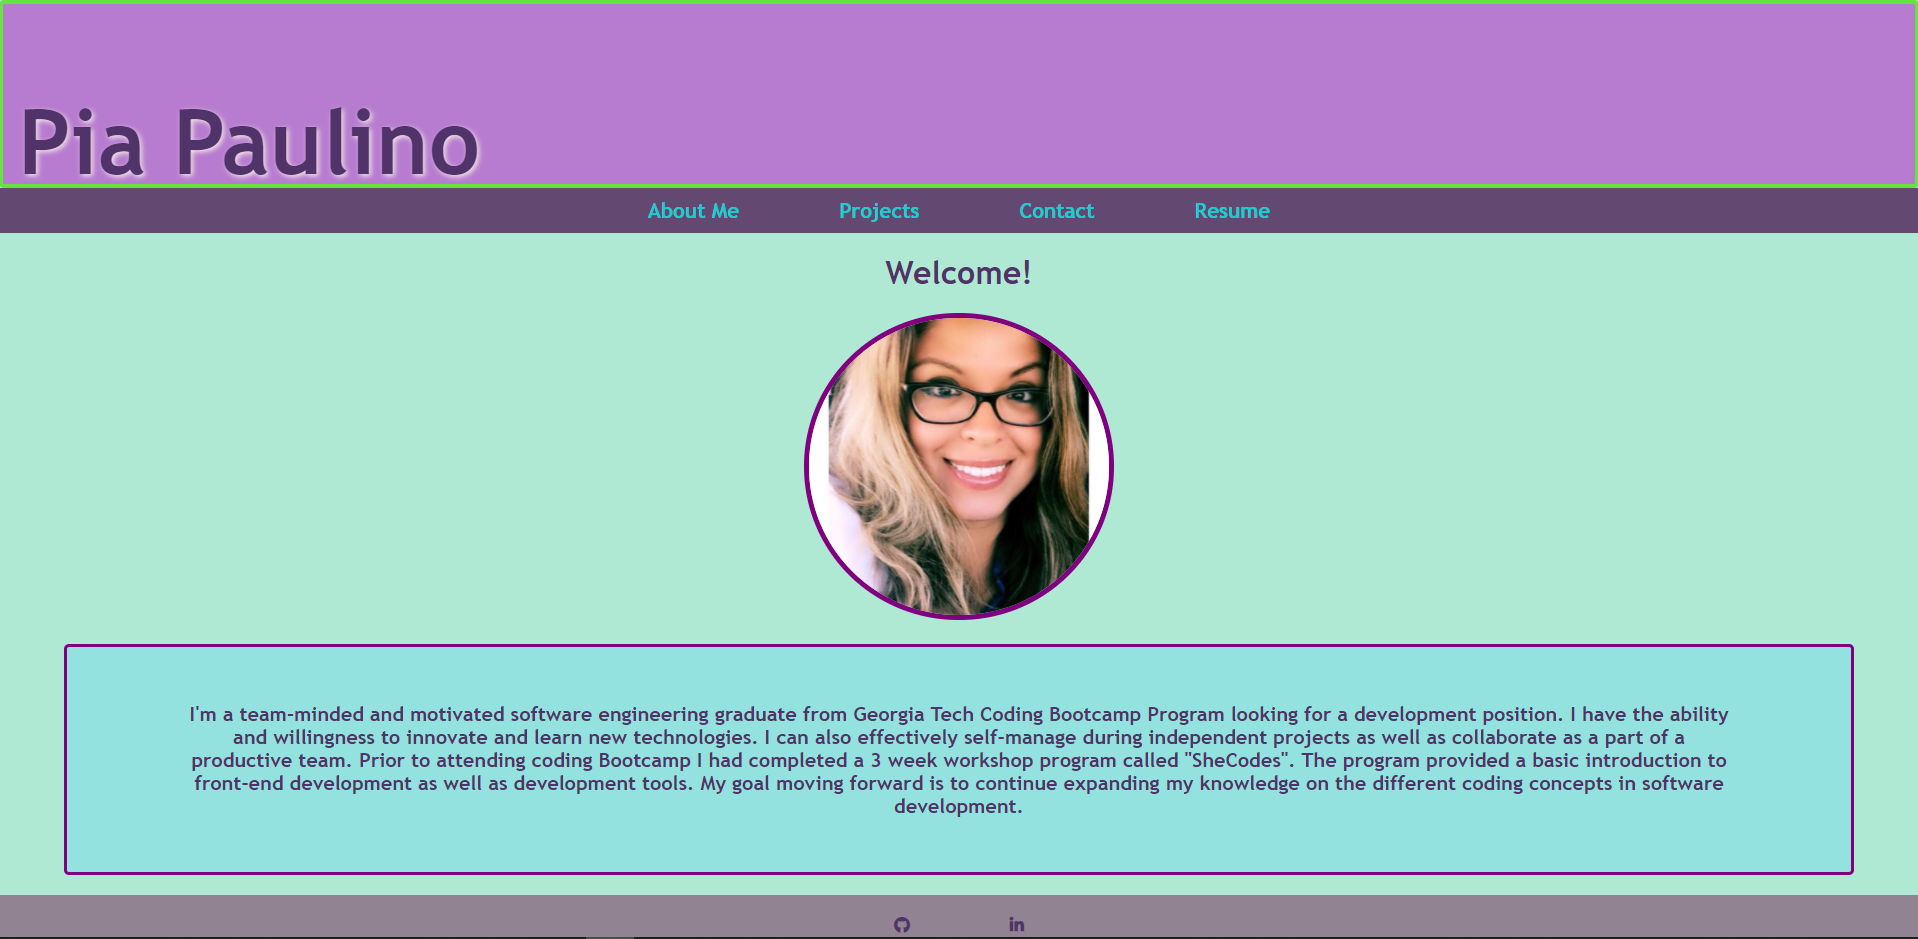
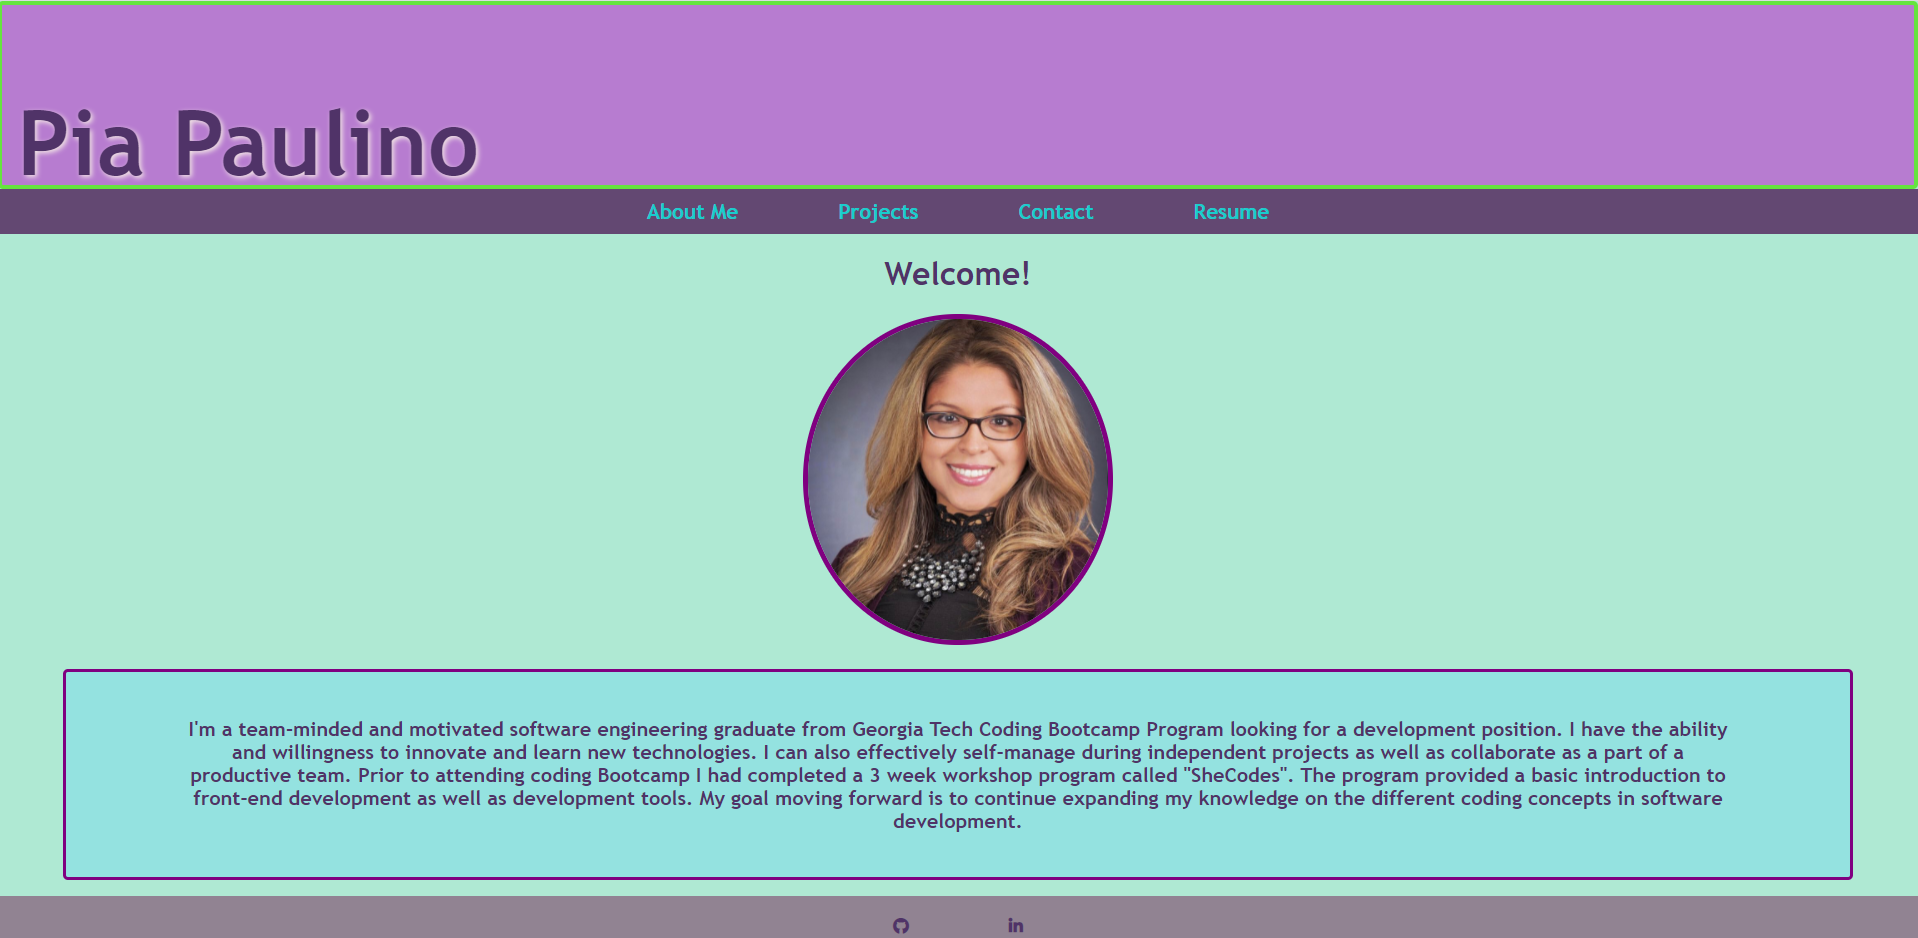
Final Update

diff --git a/src/components/About/about.css b/src/components/About/about.css
@@ -1,6 +1,6 @@
 .pic {
     border-radius: 50%;
-    border: 2px solid purple;
+    border: 5px solid purple;
 }
 
 p {
@@ -15,11 +15,11 @@ p {
     color: rgb(80, 51, 104);
     font-weight: bold;
     border-radius: 5px 5px;
-    padding: 40px 40px;
-    padding-left: 120px;
-    padding-right: 120px;
-    padding-top: 55px;
-    padding-bottom: 55px;
+    padding: 35px 35px;
+    padding-left: 115px;
+    padding-right: 115px;
+    padding-top: 45px;
+    padding-bottom: 45px;
     margin-right: 65px;
     margin-left: 65px;
    

diff --git a/src/components/About/About.js b/src/components/About/About.js
@@ -9,7 +9,7 @@ export default function About() {
 
       <img
         class="pic"
-        src="https://github.com/Maripia12/React-portfolio/blob/main/src/assets/portfolio_pic.jpg?raw=true"
+        src="https://github.com/Maripia12/React-portfolio/blob/main/src/assets/me.png?raw=true"
         width="300"
       />
 
